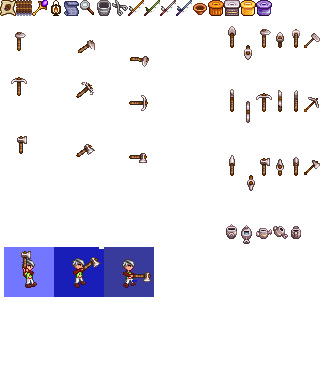
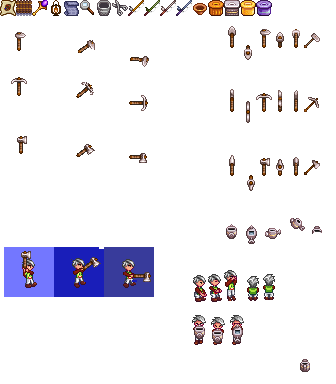
물뿌리개 클래스 추가, 물뿌리개 애니매이션 적용

Changed region(s): [[0.5655, 0.6875, 0.8333, 0.9062], [0.7143, 0.5625, 0.9524, 0.6562], [0.8929, 0.9375, 0.9226, 0.9688]]

diff --git a/stardewvalley/Gameobjects/Player2.cpp b/stardewvalley/Gameobjects/Player2.cpp
@@ -56,6 +56,7 @@ void Player2::Init()
 	pickax.Init();
 	hoe.Init();
 	scythe.Init();
+	watering.Init(); 
 }
 
 void Player2::Reset()
@@ -75,6 +76,7 @@ void Player2::Reset()
 	pickax.Reset();
 	hoe.Reset();
 	scythe.Reset();
+	watering.Reset();
 
 	currentClipInfo = clipInfos[6];
 
@@ -132,6 +134,10 @@ void Player2::Update(float dt)
 		scythe.Update(dt);
 		scythe.SetPosition(position);
 		scythe.SetOrigins();
+
+		watering.Update(dt);
+		watering.SetPosition(position);
+		watering.SetOrigins();
 
 		if ((direction.x != 0.f || direction.y != 0.f))
 		{
@@ -321,7 +327,8 @@ void Player2::Update(float dt)
 				if (animation.GetCurrentClipId() == "Idle" || animation.GetCurrentClipId() == "Move")
 				{
 					animation.Play("Water");
-
+					watering.SetFlipX(true);
+					watering.PlayAnimation("WateringFront");
 				}
 				else if (animation.GetCurrentClipId() == "IdleSide" || animation.GetCurrentClipId() == "MoveSide")
 				{
@@ -329,16 +336,20 @@ void Player2::Update(float dt)
 
 					if (filpX)
 					{
-
+						watering.SetFlipX(true);
+						watering.PlayAnimation("WateringSide");
 					}
 					else
 					{
-
+						watering.SetFlipX(false);
+						watering.PlayAnimation("WateringSide");
 					}
 				}
 				else if (animation.GetCurrentClipId() == "IdleUp" || animation.GetCurrentClipId() == "MoveUp")
 				{
 					animation.Play("WaterUp");
+					watering.SetFlipX(true);
+					watering.PlayAnimation("WateringBack");
 				}
 				energy -= 2;
 				playingAnimation = true;
@@ -377,6 +388,7 @@ void Player2::Draw(sf::RenderWindow& window)
 	window.draw(pickax.sprite); 
 	window.draw(hoe.sprite);
 	window.draw(scythe.sprite);
+	window.draw(watering.sprite);
 }
 
 bool Player2::GetFlipX() const

diff --git a/stardewvalley/Wateringcan.cpp b/stardewvalley/Wateringcan.cpp
@@ -1,0 +1,70 @@
+#include "stdafx.h"
+#include "Wateringcan.h"
+#include "InputMgr.h"
+#include "Framework.h"
+#include "ResourceMgr.h"
+#include "SceneMgr.h"
+#include "GameObject.h"
+#include "Scene.h"
+
+
+void Wateringcan::Init()
+{
+    SpriteGo::Init();
+
+    animation.AddClip(*RESOURCE_MGR.GetAnimationClip("animations/Wateringcan_Back.csv"));
+    animation.AddClip(*RESOURCE_MGR.GetAnimationClip("animations/Wateringcan_Front.csv"));
+    animation.AddClip(*RESOURCE_MGR.GetAnimationClip("animations/Wateringcan_Side.csv"));
+
+
+    animation.SetTarget(&sprite);
+    sprite.setScale(4.5f, 4.5f);
+
+    SetOrigin(Origins::BC);
+}
+
+void Wateringcan::Reset()
+{
+    SetOrigin(origin);
+    SetPosition({ 0, 0 });
+    SetFlipX(false);
+}
+
+void Wateringcan::Update(float dt)
+{
+    animation.Update(dt);
+}
+
+void Wateringcan::Draw(sf::RenderWindow& window)
+{
+    SpriteGo::Draw(window);
+}
+
+void Wateringcan::PlayAnimation(sf::String name)
+{
+    animation.Play(name);
+}
+
+void Wateringcan::SetPostion(sf::Vector2f pos)
+{
+    SetPosition(pos);
+}
+
+void Wateringcan::SetOrigins()
+{
+    SetOrigin(Origins::MC);
+}
+
+bool Wateringcan::GetFlipX() const
+{
+    return flipX;
+}
+
+void Wateringcan::SetFlipX(bool flip)
+{
+    flipX = flip;
+
+    sf::Vector2f scale = sprite.getScale();
+    scale.x = !flipX ? -abs(scale.x) : abs(scale.x);
+    sprite.setScale(scale);
+}

diff --git a/stardewvalley/Wateringcan.h b/stardewvalley/Wateringcan.h
@@ -1,0 +1,29 @@
+#pragma once
+#include "SpriteGo.h"
+#include "AnimationController.h"
+
+class Wateringcan : public SpriteGo
+{
+protected:
+	AnimationController animation;
+
+	bool flipX;
+
+public:
+
+	Wateringcan(const std::string& textureId = "", const std::string& n = "")
+		: SpriteGo(textureId, n) {}
+	virtual ~Wateringcan() override { Release(); }
+
+	virtual void Init() override;
+	virtual void Reset() override;
+	virtual void Update(float dt) override;
+	virtual void Draw(sf::RenderWindow& window) override;
+	void PlayAnimation(sf::String name);
+	void SetPostion(sf::Vector2f pos);
+	void SetOrigins();
+
+	bool GetFlipX() const;
+	void SetFlipX(bool flip);
+};
+

diff --git a/stardewvalley/Gameobjects/Player2.h b/stardewvalley/Gameobjects/Player2.h
@@ -6,6 +6,7 @@
 #include "Pickax.h"
 #include "Hoe.h"
 #include "Scythe.h"
+#include "Wateringcan.h"
 
 class Player2 :  public SpriteGo
 {
@@ -24,6 +25,7 @@ protected:
 	Pickax pickax;
 	Hoe hoe;
 	Scythe scythe;
+	Wateringcan watering;
 
 	sf::Vector2f direction;
 	float speed = 500.f;
